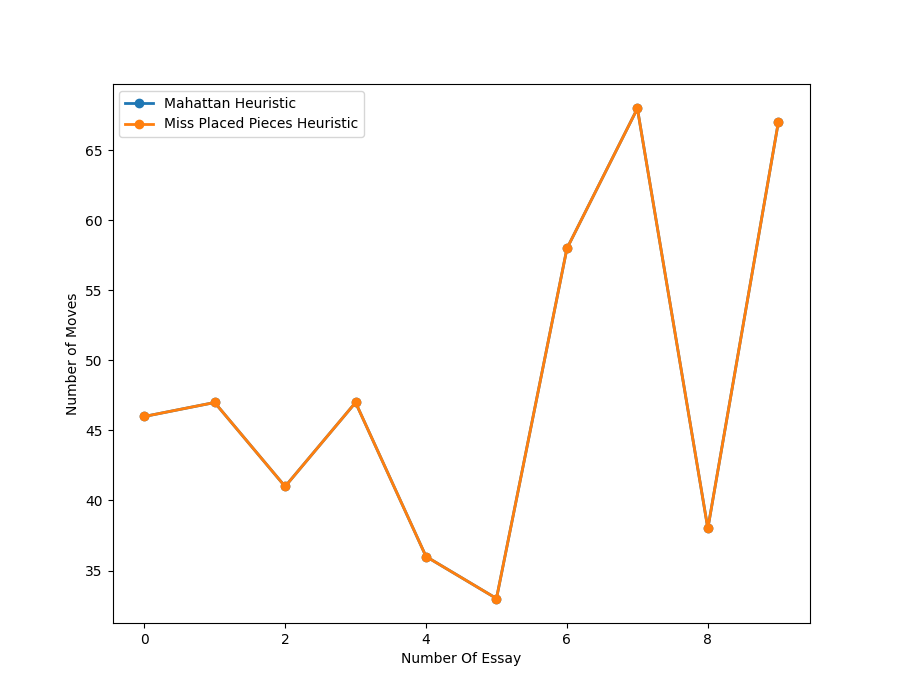
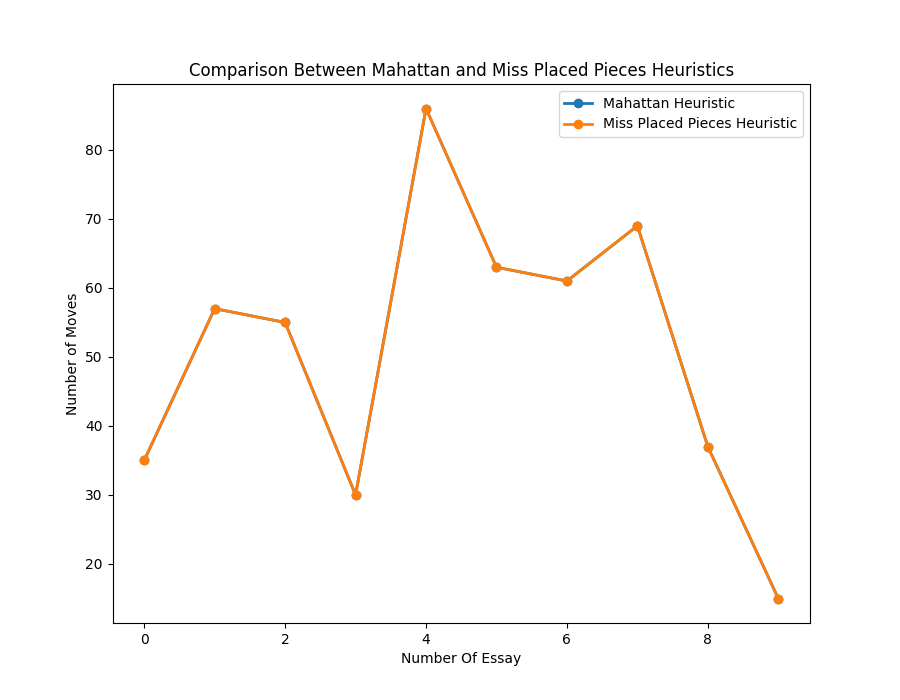
add title to generated graph

diff --git a/main.py b/main.py
@@ -20,9 +20,9 @@ def plot_comparison_results(mahattan_results, miss_placed_pieces_results):
     ax.plot(comp_df['number_of_essay'], comp_df['miss_placed_pieces_heuristic'], label="Miss Placed Pieces Heuristic",
             marker='o', linewidth=2
             )
-
     ax.set_xlabel('Number Of Essay')
     ax.set_ylabel('Number of Moves')
+    plt.title('Comparison Between Mahattan and Miss Placed Pieces Heuristics')
     plt.legend()
     plt.savefig('./comp.png')
     plt.show()
